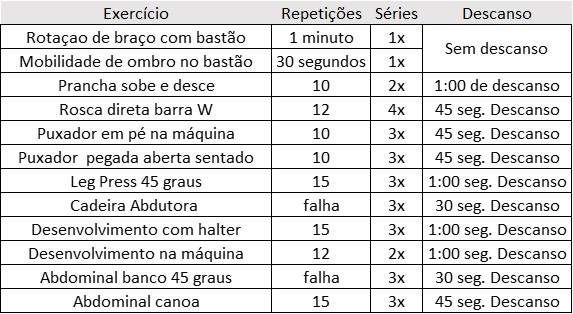
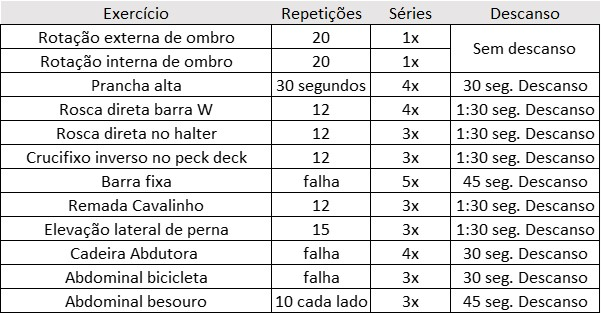
miguel

diff --git a/docs/atletas/7843.html b/docs/atletas/7843.html
@@ -38,12 +38,12 @@
                 <img class="cara" src="../galeria/miguel.jpg">
                 <p>Treino: Academia e casa.
             </br>
-           Frequência: No mínimo 5x por semana.
+           Frequência: No mínimo 6x por semana.
         </br>
         Objetivo: Melhoria do tônus muscular, ênfase em condicionamento físico e aumento de salto.
         </br>
         Característica: Os treinos terão características diversas, focados ao objetivo já mencionado e à rotina. Na semana é obrigatório
-        realizar pelo menos 2x cada treino (A e B) e pelo menos um dia de treino C (feito em casa).
+        realizar pelo menos 2x cada treino (A, B e C) e pelo menos um dia de treino D (feito em casa).
             </p>
             </div>
         </section>
@@ -52,7 +52,7 @@
             <header class="depoimento_conteudo bloco_cabecalho_degrade">Informações gerais </a></header>
             <div class="segundapagina espaco">   
             <div class="galeria">
-                <iframe width="314" height="225" src="https://www.youtube.com/embed/TY4hAbl2MaQ"frameborder="0"
+                <iframe width="314" height="225" src="https://www.youtube.com/embed/OZK4kqvNSfs"frameborder="0"
                     allow="accelerometer; autoplay; encrypted-media; gyroscope; picture-in-picture"
                     allowfullscreen></iframe>
             </div>
@@ -66,7 +66,8 @@
                 <p>O treino A é o primeiro treino, com foco um pouco maior no braço. Prestar bastance atenção na contração 
                     do abdomem
                     e da coluna na hora de execução dos movimentos. Estar bem atento na hora da realização dos exercícios
-                    em relação à respiração. Referente à carga, colocar um peso que você, ao acabar a série, fique exausto.      
+                    em relação à respiração. Referente à carga, colocar um peso que você, ao acabar a série, fique exausto. É importante
+                    também respeitar as ordens dos exercícios pois eles estão colocados seguidos com um propósito.      
             </p>
             <div class="galeria">
                 <iframe width="314" height="225" src="https://www.youtube.com/embed/7rDnoZPB8R8"frameborder="0"
@@ -80,8 +81,28 @@
             <header class="depoimento_conteudo bloco_cabecalho_degrade">Treino B </a></header>
             <div class="segundapagina espaco">   
                 <img class="shoot" src="../galeria/miguelb.jpg">
-                <p>O treino B é o treino com um pequeno foco maior para perna. Prestar bastance atenção na contração do abdomem
-                    e da coluna na hora de execução dos movimentos (igual no treino A). Atenção na realização de movimentos
+                <p>O treino B é o segundo treino, com foco um pouco maior no braço em músculos diferentes do treino A.
+                     Prestar bastance atenção na contração 
+                    do abdomem
+                    e da coluna na hora de execução dos movimentos. Estar bem atento na hora da realização dos exercícios
+                    em relação à respiração. Referente à carga, colocar um peso que você, ao acabar a série, fique exausto. É importante
+                    também respeitar as ordens dos exercícios pois eles estão colocados seguidos com um propósito.      
+            </p>
+            <div class="galeria">
+                <iframe width="314" height="225" src="https://www.youtube.com/embed/7rDnoZPB8R8"frameborder="0"
+                    allow="accelerometer; autoplay; encrypted-media; gyroscope; picture-in-picture"
+                    allowfullscreen></iframe>
+            </div>
+            </div>
+        </section>
+
+        <section class="materias">
+            <header class="depoimento_conteudo bloco_cabecalho_degrade">Treino C </a></header>
+            <div class="segundapagina espaco">   
+                <img class="shoot" src="../galeria/miguelc.jpg">
+                <p>O treino C é o treino totalmente focado nos membros inferiores (perna). Prestar bastance atenção na contração do abdomem
+                    e da coluna na hora de execução dos movimentos, principalmente em movimentos como o 
+                    levantamento terra e o stiff. Atenção na realização de movimentos
                     que possam gerar desconfortos.
                 </p>
             <div class="galeria">
@@ -93,11 +114,11 @@
         </section>
 
         <section class="materias">
-            <header class="depoimento_conteudo bloco_cabecalho_degrade">Treino C </a></header>
+            <header class="depoimento_conteudo bloco_cabecalho_degrade">Treino D </a></header>
             <div class="segundapagina espaco">   
-                <img class="shoot" src="../galeria/miguelc.jpg">
-                <p>O treino C é o treino para ser feito em casa. Portanto não precisa de aparelho, apenas um espaço e tempo
-                    para concluí-lo. Focado mais nos movimentos para melhoria do salto.
+                <img class="shoot" src="../galeria/migueld.jpg">
+                <p>O treino D é o treino para ser feito em casa. Portanto não precisa de aparelho, apenas um espaço e tempo
+                    para concluí-lo. Focado mais nos movimentos para melhoria do salto e condicionamento.
                   
                      
             </p>
